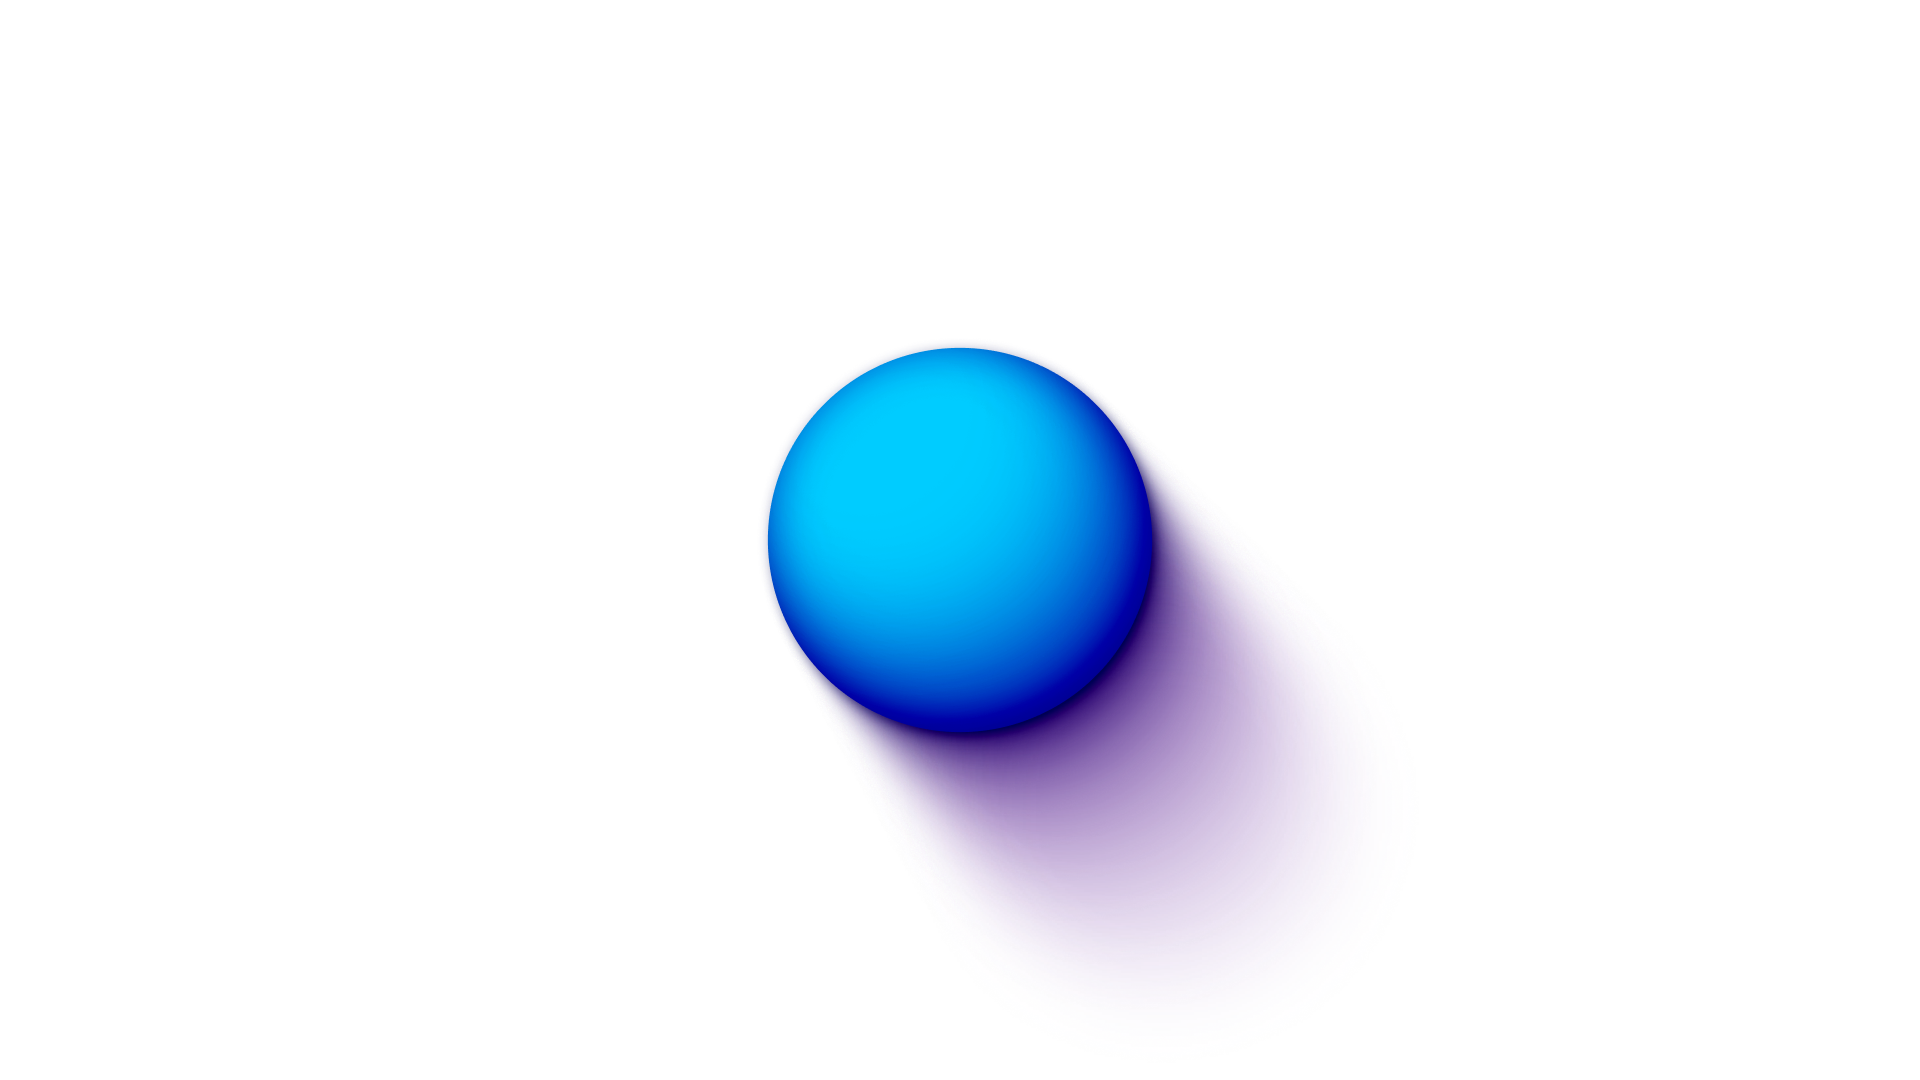
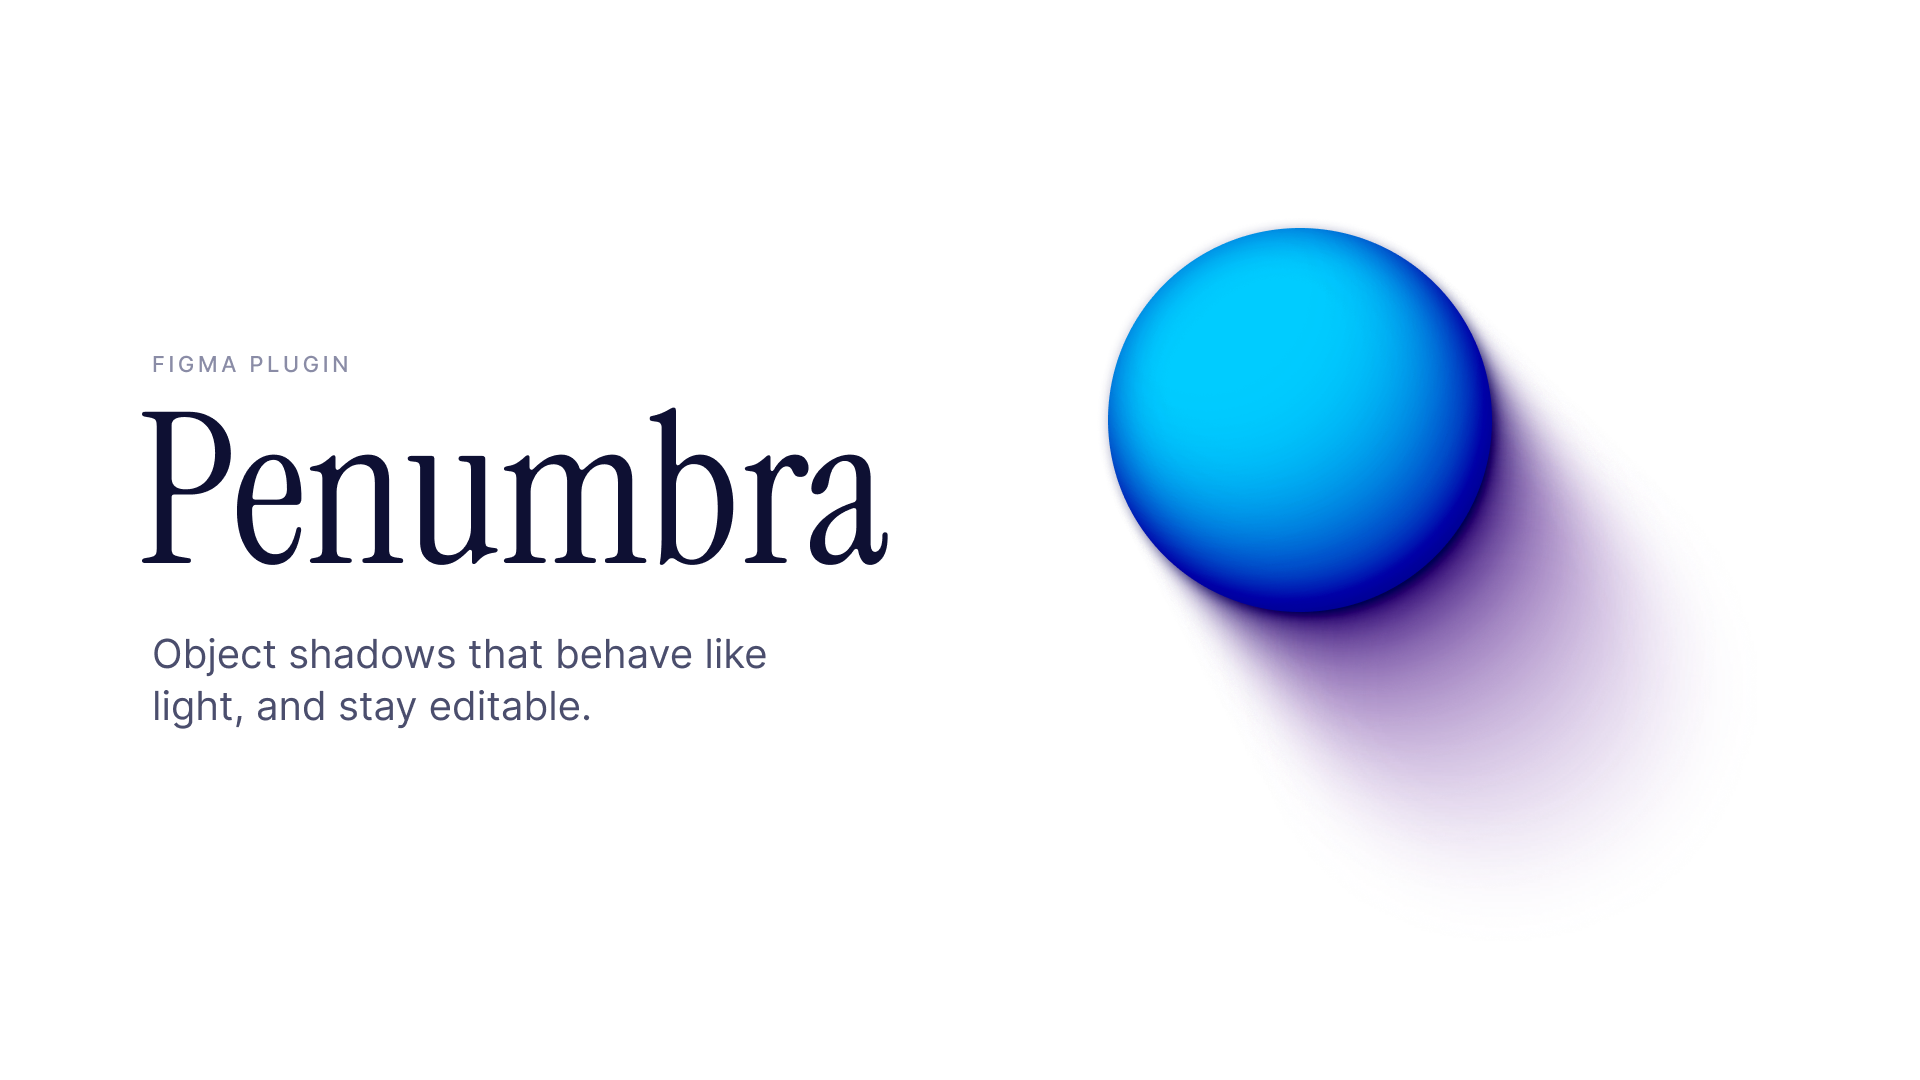
Cover: the key visual's sphere with the title, as the draft had

Changed region(s): [[0.0625, 0.1833, 0.875, 0.8861]]

diff --git a/PUBLISHING.md b/PUBLISHING.md
@@ -136,7 +136,7 @@ Inner shadows, a light you drag on the preview, and curves for distance, blur, o
 **Images**, from `assets/`:
 
 - Icon: `icon.png` (128 × 128), new
-- Thumbnail: `cover.png` (1920 × 1080), new: the key visual
+- Thumbnail: `cover.png` (1920 × 1080), new: the key visual's sphere with the title
 - Carousel, in this order, all four new: `carousel-1-panel.png`, `carousel-2-elevation.png`, `carousel-3-color.png`, `carousel-4-stack.png`
 
 **Picked, not pasted:**
@@ -208,6 +208,6 @@ At 384 px across; scale distance and softness with the size. Type: Instrument Se
 
 `assets/` holds the listing images:
 
-- `cover.png` is the key visual itself, exported from Fabian's file at 1920 × 1080.
-- `icon.png` is a crop of it (700 px square around the sphere), scaled to 128.
+- `cover.png` is the key visual's sphere, same shadows, beside the eyebrow ("FIGMA PLUGIN"), the title and the tagline (board "Cover" on the page below).
+- `icon.png` is a crop of Fabian's key visual frame (700 px square around the sphere), scaled to 128.
 - The carousel slides are made with Penumbra's own code (`src/nodes.ts` run through the Figma MCP, like `npm run figma-check`) on the page "Community assets" of the scratch file "Penumbra plugin check (scratch)" in Fabian's drafts, with the brand sphere's settings. The panel on the first slide is the real `dist/ui.html` showing that sphere's shadows, rendered in headless Chrome and placed over the Figma render.
